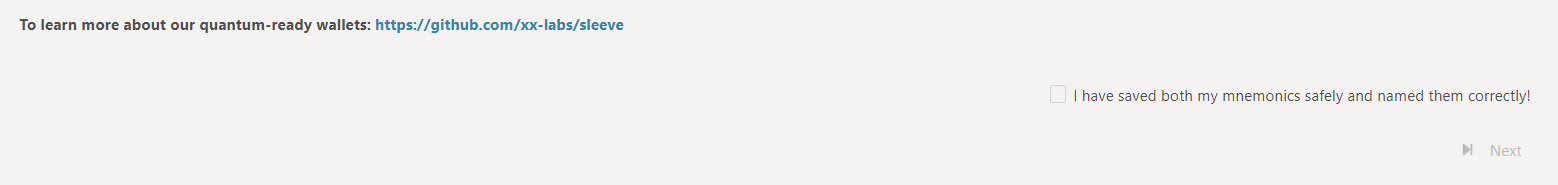
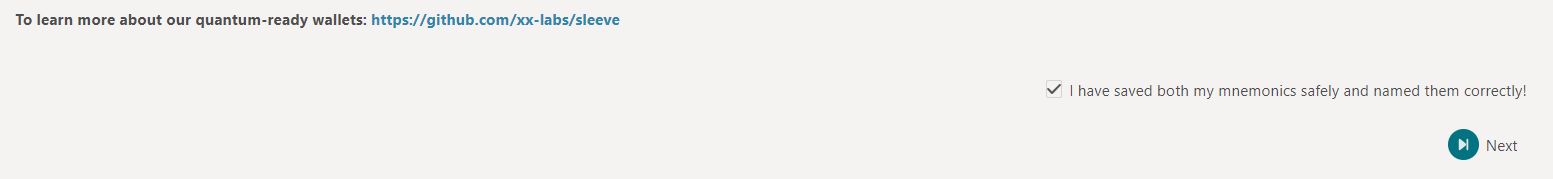
GitBook: [#2] No subject

Changed region(s): [[0.0, 0.0838, 0.4018, 0.1676], [0.68, 0.4749, 0.9891, 0.5587], [0.9272, 0.7263, 0.9891, 0.8939]]

diff --git a/nominirovanie/vybor-nod-dlya-nominirovaniya.md b/nominirovanie/vybor-nod-dlya-nominirovaniya.md
@@ -1,50 +1,66 @@
 # Выбор нод для номинирования
 
-После того, как тайник создан, вы можете приступать к стейкингу. В этом разделе мы расскажем о номинировании чужих узлов.
+После того, как тайник создан, вы можете приступать к стейкингу. Речь пойдет о номинировании чужих узлов.
 
 Помните, что каждый аккаунт может номинировать не более 16 различных узлов. Если вы хотите номинировать более 16 узлов, то вам нужно будет создать еще один аккаунт и разделить ваши монеты между аккаунтами.
 
-#### Обзор нод
+### Выбор узлов
 
-Во-первых, вам, вероятно, придется изучить доступные узлы, чтобы выбрать подходящие узлы для номинации.
+Во-первых, необходимо изучить доступные узлы, чтобы выбрать подходящие для номинации.
 
 * В меню навигации переходим в _Network_ и в выпадающем меню выбираем _Staking_. либо просто переходим по ссылке [https://wallet.xx.network/#/staking](https://wallet.xx.network/#/staking)
 
-<figure><img src="../.gitbook/assets/image (1) (1).png" alt=""><figcaption></figcaption></figure>
+<figure><img src="../.gitbook/assets/image (20).png" alt=""><figcaption></figcaption></figure>
 
 * На странице Staking Overview кликаем вкладку _Targets_
 
-<figure><img src="../.gitbook/assets/image (6).png" alt=""><figcaption></figcaption></figure>
+<figure><img src="../.gitbook/assets/image (18).png" alt=""><figcaption></figcaption></figure>
 
-Здесь вы можете увидеть все доступные узлы, которые вы можете номинировать. Подробное описание выбора лучших узлов для номинирования выходит за рамки этого гайда, однако есть некоторые моменты, которые следует учитывать при выборе узлов, которые вы хотите номинировать.
+Здесь вы можете увидеть все доступные узлы, которые вы можете номинировать.&#x20;
 
-* **Комиссия узла**
+Есть некоторые моменты, которые следует учитывать при выборе узлов, которые вы хотите номинировать.
+
+<details>
+
+<summary><strong>Комиссия узла</strong></summary>
 
 Процент комиссии - это сумма вознаграждений, которую узел берет в качестве компенсации за управление узлом. Остальные награды распределяются между стейкерами узла. Узел со 100% комиссией заберет все награды, не оставив ничего для всех, кто его выдвинул. Аналогичным образом, узел с комиссией 0% не будет получать никакой дополнительной компенсации за управление узлом, а все его доходы будут разделены между его стейкерами.
 
-<figure><img src="../.gitbook/assets/image (2) (1).png" alt=""><figcaption></figcaption></figure>
+</details>
 
-*   #### Количество человек номинировавших узел
+<figure><img src="../.gitbook/assets/image (14).png" alt=""><figcaption><p>коммиссия узлов</p></figcaption></figure>
 
-    Вознаграждения, которые зарабатывает узел, делятся поровну в зависимости от стейка (после снятия комиссии). Чем больший стейк узла, тем с большим количеством людей вы будете делить свои вознаграждения.&#x20;
+<details>
 
-    Проверьте колонку "Total Stake" и примите это во внимание. Кроме того, вознаграждения от ноды будут выплачены только 256 лучшим номинантам. Это означает, что если вы номинируете на узел, но 256 человек номинируют больше, чем вы, то вы не получите никаких наград с этого узла, пока не сделаете достаточно ставок, чтобы войти в число 256 лучших.&#x20;
+<summary>Количество номинаторов узла</summary>
 
-    Проверьте колонку номинантов и учитывайте это при выборе узлов. Рядом со всеми узлами, у которых более 256 номинантов, появится красный значок с надписью Oversubscribed Explorer
+Вознаграждения, которые зарабатывает узел, делятся поровну в зависимости от стейка (после снятия комиссии). Чем больший стейк узла, тем с большим количеством людей вы будете делить свои вознаграждения.&#x20;
+
+Проверьте колонку "Total Stake" и примите это во внимание. Кроме того, вознаграждения от ноды будут выплачены только 256 лучшим номинантам. Это означает, что если вы номинируете на узел, но 256 человек номинируют больше, чем вы, то вы не получите никаких наград с этого узла, пока не сделаете достаточно ставок, чтобы войти в число 256 лучших.&#x20;
+
+_Проверьте колонку номинантов и учитывайте это при выборе узлов. Рядом со всеми узлами, у которых более 256 номинантов, появится красный значок с надписью `Oversubscribed Explorer`_
+
+</details>
 
 <figure><img src="../.gitbook/assets/image (7).png" alt=""><figcaption></figcaption></figure>
 
-*   #### Предыдущая производительность узла
+<details>
 
-    Если узел уходит в офлайн или работает нестабильно, он (и все, кто стейкает ему) заработает меньше монет, а в редких случаях, может и потерять монеты. Следующие инструкции, помогут проверить производительность узла.
+<summary>Производительность узла</summary>
 
-    * Нажмите на `cmix id`  узла, чтобы открыть его страницу на дашборде сети xx
+Если узел уходит в офлайн или работает нестабильно, он (и все его стейкеры) заработает меньше монет, а в редких случаях, может их и потерять.
 
-<figure><img src="../.gitbook/assets/image (2).png" alt=""><figcaption></figcaption></figure>
+</details>
+
+### Как проверить производительность узла
+
+Нажмите на `cmix id`  узла, чтобы открыть его страницу на дашборде сети xx
+
+<figure><img src="../.gitbook/assets/image (15).png" alt=""><figcaption></figcaption></figure>
 
 * Посмотрите на графики Uptime и Round Success Rate и убедитесь, что они приемлемы.
 
-<figure><img src="../.gitbook/assets/image (1).png" alt=""><figcaption><p>как видно на примере производительность узла оставляет желать лучшего</p></figcaption></figure>
+<figure><img src="../.gitbook/assets/image (19).png" alt=""><figcaption><p>как видно на примере производительность узла оставляет желать лучшего</p></figcaption></figure>
 
 * Возвращаемся на вкладку проводника и нажимаем на значок статистики Explorer рядом с узлом
 
@@ -52,6 +68,6 @@
 
 * На этой странице вы можете увидеть, насколько стабильным был узел.
 
-<figure><img src="../.gitbook/assets/image (5).png" alt=""><figcaption></figcaption></figure>
+<figure><img src="../.gitbook/assets/image (6).png" alt=""><figcaption></figcaption></figure>
 
 После того как выбрана одна или несколько нод можно переходить непосредственно к номинированию.

diff --git a/nominirovanie/README.md b/nominirovanie/README.md
@@ -1,0 +1,25 @@
+# Номинирование
+
+#### ..
+
+Хочу отметить некоторую неопределенность относительно терминологии. Многие термины не имеют устоявшихся аналогов в русском языке, в виду этого допустимы некоторые авторские допуски.&#x20;
+
+#### Общие положения
+
+Чтобы номинировать узел в сети xx, вам потребуется сначала заблокировать (bond) монеты, которые вы помещаете в стейкинг. Пока эти монеты заблокированы, они не могут быть переданы, но могут быть использованы для стейкинга и в <mark style="color:red;">целях управления</mark> (governance). Стейкинг и управление считаются отдельными действиями, и оба могут выполняться одновременно с одними и теми же связанными монетами.&#x20;
+
+Предположим, что у вас есть 1 000 монет xx, и вы номинируете несколько узлов. В этом случае вы можете использовать эти же монеты xx для голосования, <mark style="color:red;">выборов членов совета</mark> и внесения предложений по расходованию средств, не выводя узлы из стейкинга.
+
+Если пользователь хочет разблокировать все или некоторые из своих монет, существует 28-дневный период ожидания (cooldown), прежде чем монеты можно будет использовать. В течение этого периода монеты не будут приносить проценты и не будут учитываться в активной ставке.&#x20;
+
+В течение этого периода пользователь может в любое время вновь заблокировать монеты и использовать их для стейкинга. Наличие такого кулдауна гарантирует, что монеты будут доступны, если в течение 28-дневного периода анбондинга (unbond) будет обнаружена причина для слэшинга.\
+
+
+#### Процедура номинирования узлов
+
+1. Создание и пополнение кошелька <mark style="color:blue;">`контроллера`</mark>
+2. Блокирование монет предназначенных для стейкинга
+3. Выбор узлов для номинирования (до 16 узлов)
+4. Ожидание следующих выборов, чтобы ваша номинация была применена
+5. Клейм вознаграждения (вознаграждение будет автоматически внесено в стейкинг, чтобы на него начислялись проценты)
+

diff --git a/nominirovanie/voznagrazhdeniya.md b/nominirovanie/voznagrazhdeniya.md
@@ -1,0 +1,20 @@
+# Вознаграждения
+
+Существует ряд простых правил относительно выплаты вознаграждения:
+
+* Вы можете получить выплату в размере xx монет в конце каждой эпохи, в которой вы являетесь активным номинатором активного же валидатора.&#x20;
+* Выплаты не поступают в ваш кошелек автоматически; они должны быть затребованы вручную вами или одним из других стакеров на узле этой выплаты.&#x20;
+* Когда один из стейкеров узла запрашивает клейм за эру, она автоматически запрашивается для всех остальных стейкеров узла.&#x20;
+* Существует крайний срок, до которого каждая выплата должна быть затребована, прежде чем она будет потеряна.
+
+Все доступные выплаты можно посмотреть на вкладке _`Staking - Payouts`_&#x20;
+
+<figure><img src="../.gitbook/assets/image (8).png" alt=""><figcaption></figcaption></figure>
+
+Здесь вы можете увидеть суммарные выплаты, доступные для каждого тайника, а также список всех индивидуальных выплат, на которые можно претендовать.&#x20;
+
+Вы можете затребовать каждую из них по отдельности, нажав на кнопку _`Payout`_ справа, либо можно затребовать все выплаты разом с помощью кнопки _`Payout All`_ в правом верхнем углу.&#x20;
+
+Если вы активно номинируете в течение хотя бы одного дня и не видите выплат, скорее всего, другой стейкер уже затребовал выплату за вас, и монеты уже находятся в вашем кошельке.&#x20;
+
+Все выплаты автоматически перечисляются на счет в тайнике, который их заработал.

diff --git a/nominirovanie/sozdanie-tainika.md b/nominirovanie/sozdanie-tainika.md
@@ -1,0 +1,31 @@
+# Создание тайника
+
+#### Перед началом процедуры стейкинга войдите в учетную запись xx-wallet
+
+{% embed url="https://wallet.xx.network/" %}
+
+#### Блокирование монет для стейкинга
+
+* После создания кошелька необходимо заблокировать (bond) монеты в сети. Делается это в меню, переходим во вкладку _Network_ и в выпадающем меню выбираем _Staking_. Либо просто переходим по ссылке [https://wallet.xx.network/#/staking](https://wallet.xx.network/#/staking)
+
+<figure><img src="../.gitbook/assets/image (21).png" alt=""><figcaption></figcaption></figure>
+
+* Откроется страница Staking Overview. Переходим во вкладку Account actions, и нажимаем кнопку Stash (Тайник)
+
+<figure><img src="../.gitbook/assets/image (22).png" alt=""><figcaption></figcaption></figure>
+
+* Откроется окно _Bonding Preferences_
+  * Выбираем аккаунт. Аккаунт Тайника и контроллера должен быть одинаковым
+  * Пишем сумму для блокировки
+  * Перепроверяем данные и нажимаем кнопку Bond
+
+<figure><img src="../.gitbook/assets/Screenshot 09-01-2022 20.41.33.png" alt=""><figcaption></figcaption></figure>
+
+* В следующем окне авторизуем транзакцию вводом пароля и нажатием кнопки _Sign and Submit_
+
+<figure><img src="../.gitbook/assets/Screenshot 09-01-2022 20.45.43.png" alt=""><figcaption></figcaption></figure>
+
+* Небольшое видео по всему этапу в целом
+
+<figure><img src="../.gitbook/assets/xx1.gif" alt=""><figcaption></figcaption></figure>
+

diff --git a/nominirovanie/nominirovanie.md b/nominirovanie/nominirovanie.md
@@ -2,9 +2,20 @@
 
 * Переходим на вкладку _Targets_ меню _Network_
 
-<figure><img src="../.gitbook/assets/image (6).png" alt=""><figcaption></figcaption></figure>
+<figure><img src="../.gitbook/assets/image (18).png" alt=""><figcaption></figcaption></figure>
 
-* Для выбора нод используем чекбокс справа. Выбираем одну или несколько нод (макс. 16).
+* Для выбора нод используем чекбокс справа. Выбираем одну или несколько нод (не более 16). Подтвержаем выбор кнопкой _Nominate Selected_
 
-<figure><img src="../.gitbook/assets/image (3).png" alt=""><figcaption></figcaption></figure>
+<figure><img src="../.gitbook/assets/Screenshot 09-02-2022 02.25.14.png" alt=""><figcaption><p>выбор нод/ноды для номинирования</p></figcaption></figure>
 
+Дальнейшие действия достаточно просты и приведу просто серию скриншотов&#x20;
+
+<figure><img src="../.gitbook/assets/image (9).png" alt=""><figcaption><p>окно #1 - информация о сделке </p></figcaption></figure>
+
+<figure><img src="../.gitbook/assets/image (3).png" alt=""><figcaption><p>шаг #2 - авторизация </p></figcaption></figure>
+
+<figure><img src="../.gitbook/assets/image (16).png" alt=""><figcaption><p>ожидаемый результат</p></figcaption></figure>
+
+После завершения номинирования остается дождаться следующих выборов, чтобы ваша делегация была исполнена.
+
+``[`>>> приведу линк на видеообзор, будет всем проще )`](../)``

diff --git a/nominirovanie/vybory-election.md b/nominirovanie/vybory-election.md
@@ -1,0 +1,12 @@
+# Выборы (Election)
+
+Когда вы номинируете узел, ваша номинация не становится активной сразу. Вместо этого она будет принята во время следующих выборов узла, которые происходят в конце каждой эпохи.
+
+* Переходим по адресу _`Network - Staking - Account Actions`_ либо по ссылке [https://wallet.xx.network/#/staking](https://wallet.xx.network/#/staking) и наблюдаем состояние наших тайников (stashes)
+
+<figure><img src="../.gitbook/assets/image (10).png" alt=""><figcaption></figcaption></figure>
+
+* Определить оставшееся время ожидания можно на вкладке _`Network - Overview`_
+
+<figure><img src="../.gitbook/assets/image (11).png" alt=""><figcaption></figcaption></figure>
+

diff --git a/sozdanie-akkaunta.md b/sozdanie-akkaunta.md
@@ -30,7 +30,7 @@
 
 Записываем обе фразы (обращаем внимание на рекомендации выше), отмечаем галочкой что мы сохранили обе фразы и идем дальше
 
-<figure><img src=".gitbook/assets/Screenshot 2022-08-28 223510.png" alt=""><figcaption></figcaption></figure>
+<figure><img src=".gitbook/assets/Screenshot 2022-08-28 223510 (1).png" alt=""><figcaption></figcaption></figure>
 
 Подтверждаем что мы верно сохранили квантовую мнемонику и проходим аналогичную проверку стандартной мнемоники на следующей странице. ****&#x20;
 

diff --git a/SUMMARY.md b/SUMMARY.md
@@ -2,7 +2,9 @@
 
 * [Интро](README.md)
 * [Создание аккаунта](sozdanie-akkaunta.md)
-* [Номинирование](delegirovanie.md)
-  * [Создание тайника](nominirovanie/obzor-shagov-po-nominirovaniyu-uzlov.md)
+* [Номинирование](nominirovanie/README.md)
+  * [Создание тайника](nominirovanie/sozdanie-tainika.md)
   * [Выбор нод для номинирования](nominirovanie/vybor-nod-dlya-nominirovaniya.md)
   * [Номинирование](nominirovanie/nominirovanie.md)
+  * [Выборы (Election)](nominirovanie/vybory-election.md)
+  * [Вознаграждения](nominirovanie/voznagrazhdeniya.md)

diff --git a/README.md b/README.md
@@ -1,6 +1,8 @@
 ---
-description: Краткое описание проекта
+description: Аккаунты и номинирование в сети ~ xx.network
+layout: editorial
 ---
 
 # Интро
 
+###
